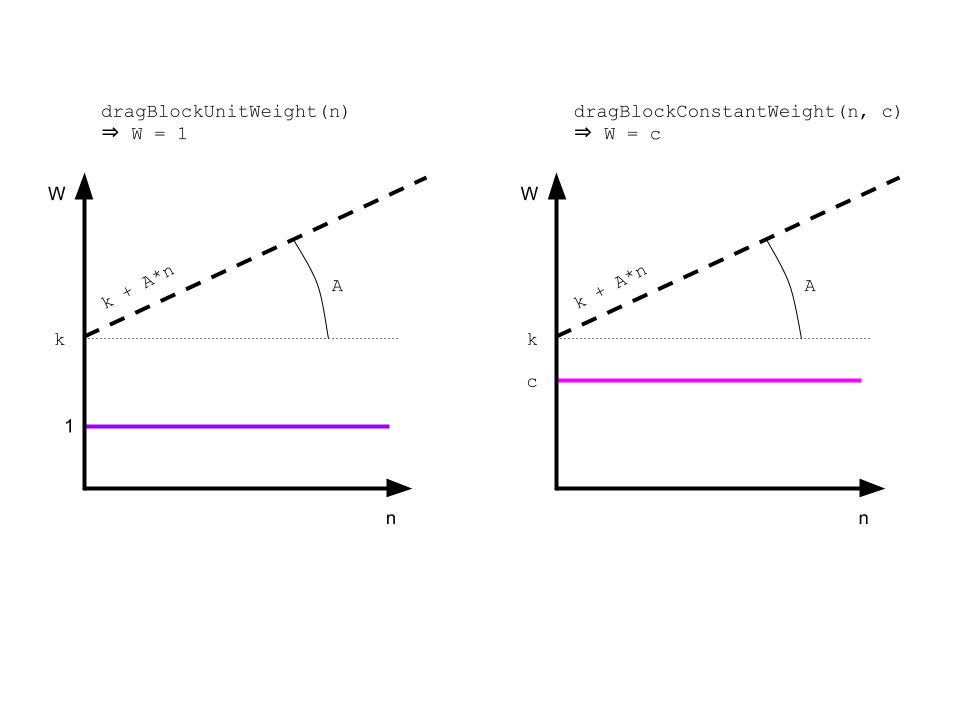
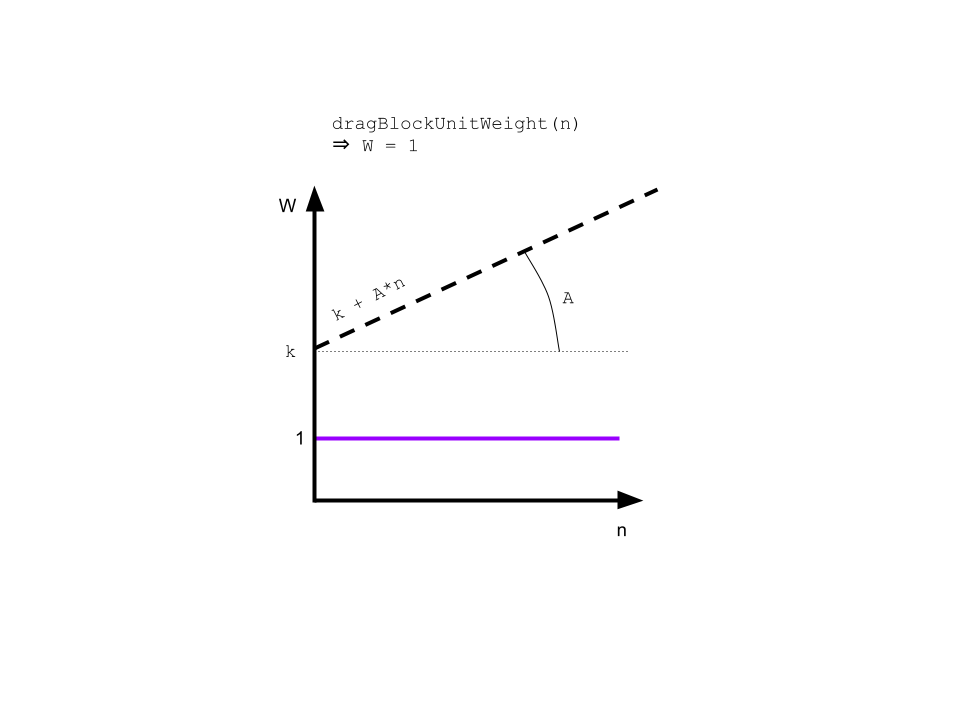
rm drag_block_constant_weight

diff --git a/src/lib.rs b/src/lib.rs
@@ -79,26 +79,5 @@ pub mod pallet {
 			// Return a successful DispatchResultWithPostInfo
 			Ok(())
 		}
-
-		// By using a constant weight we are essentially telling
-		// the runtime that this dispatchable function will be executed at constant time, which is not true
-		#[pallet::weight(*_c as Weight)]
-		pub fn drag_block_constant_weight(origin: OriginFor<T>, n: u64, _c: u64) -> DispatchResult {
-			let who = ensure_signed(origin)?;
-
-			let mut j = 0;
-
-			// stall loop
-			for i in 1..=n {
-				// hash to waste some cpu cycles
-				T::Hashing::hash_of(&j);
-				j = i;
-			}
-
-			Self::deposit_event(Event::Stalled(n, who));
-
-			// Return a successful DispatchResultWithPostInfo
-			Ok(())
-		}
 	}
 }

diff --git a/src/weights.rs b/src/weights.rs
@@ -7,15 +7,11 @@ use sp_std::marker::PhantomData;
 
 pub trait WeightInfo {
 	fn unit_weight() -> Weight;
-	fn constant_weight(c: u32) -> Weight;
 }
 
 pub struct SubstrateWeight<T>(PhantomData<T>);
 impl<T: frame_system::Config> WeightInfo for SubstrateWeight<T> {
 	fn unit_weight() -> Weight {
 		(1 as Weight)
-	}
-	fn constant_weight(c: u32, ) -> Weight {
-		(c as Weight)
 	}
 }

diff --git a/src/benchmarking.rs b/src/benchmarking.rs
@@ -13,13 +13,4 @@ benchmarks! {
 	verify {
 		assert_eq!(1, 1)
 	}
-
-	drag_block_constant_weight {
-		let caller = whitelisted_caller();
-		let n in 1 .. 10_000_000;
-		let c in 1 .. 10_000_000;
-	}: drag_block_constant_weight(RawOrigin::Signed(caller), n.into(), c.into())
-	verify {
-		assert_eq!(1, 1)
-	}
 }

diff --git a/README.md b/README.md
@@ -20,7 +20,6 @@ The Chaos module provides functions for:
 ## Dispatchable Functions
 
 - `dragBlockUnitWeight(n)` - Drags block production by calculating hashes in a loop (`n` times), with constant unitary weight.
-- `dragBlockConstantWeight(n, c)` - Drags block production by calculating hashes in a loop (`n` times), with custom constant weight.
 
 ![block dragger](blockdragger.png)
 
